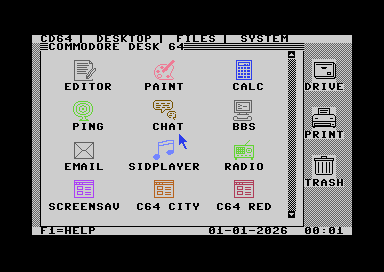
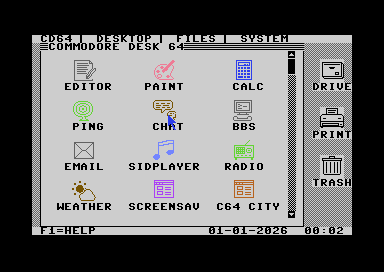
WEATHER step 8: README, screenshots, disks rebuilt
- README: a Weather chapter (wttr.in, CHANGE/AUTO, WEATHER.CFG, REFRESH
  and the 15-minute refresh, the 16 pictures, the test server), WEATHER in
  the program lists, user files, folders and tools; not on the D64.
- Screenshots: WEATHER in the C64 and DESK64 themes, an overview of all
  weather pictures, and the theme screenshots again with the new icon.
- Plan: step 8 done.

diff --git a/README.md b/README.md
@@ -68,8 +68,8 @@ C64 RED are placeholders.
 | E-mail: mailbox | Reading a message | Writing a reply |
 | ![Chat](docs/screenshots/chat.png) | ![Ping](docs/screenshots/ping.png) | ![Add BBS](docs/screenshots/bbs_add.png) |
 | AI chat | Ping | Adding your own BBS |
-| ![SID Radio](docs/screenshots/radio.png) | ![SID Radio playing](docs/screenshots/radio_play.png) | |
-| SID Radio | Playing a tune from the HVSC | |
+| ![SID Radio](docs/screenshots/radio.png) | ![SID Radio playing](docs/screenshots/radio_play.png) | ![Weather](docs/screenshots/weather.png) |
+| SID Radio | Playing a tune from the HVSC | Weather from wttr.in |
 
 | Settings | | |
 |---|---|---|
@@ -98,7 +98,7 @@ C64 RED are placeholders.
   - **SYSTEM**: SETTINGS, NETWORK, EMAIL and TIME. These are the only way to
     reach settings, the same everywhere.
 - **Desktop icons**: the built-in programs (EDITOR, PAINT, CALC, PING, CHAT,
-  BBS, EMAIL, SID PLAYER, RADIO) and your own programs, for example games. Click one to start it.
+  BBS, EMAIL, SID PLAYER, RADIO, WEATHER) and your own programs, for example games. Click one to start it.
   The list scrolls when it gets longer than the window.
 - **Starting a program from disk** (for example a game) shows a calm screen in the theme colours with
   `LOADING <name> please wait` while it loads. When the program ends (it
@@ -276,6 +276,39 @@ SID Player.
 - The WiC64 has its own "SID Radio" in its portal. Its source code is not
   public, so this is a separate implementation.
 
+### Weather
+
+![WEATHER in the DESK64 theme](docs/screenshots/weather_desk64.png)
+
+WEATHER shows the weather right now for a place you choose, with an
+animated picture made of sprites.
+
+- The weather comes from [wttr.in](https://wttr.in) over plain HTTP (a
+  C64 has no TLS): place, temperature, feels like, the description, wind
+  direction and speed, humidity, rain, air pressure, sunrise and sunset,
+  and the local time of the place. **UPDATED** is the time on the C64's own
+  clock when it was fetched.
+- **CHANGE** asks for a place (type it, RETURN). It is saved in
+  `WEATHER.CFG` and used again next time. An empty place means **AUTO**:
+  wttr.in then picks the place from your internet address. A place wttr.in
+  does not know gives `PLACE NOT FOUND`.
+- **REFRESH** fetches it again; while WEATHER is open it also refreshes by
+  itself every 15 minutes. **RUN/STOP** stops a fetch that takes too long.
+- The picture has 16 kinds of weather: sun, moon, partly cloudy (day and
+  night), cloudy, overcast, fog, light and heavy rain, showers (day and
+  night), light and heavy snow, sleet, thunder and thunder with snow. Sun
+  and moon follow the sunrise and sunset of the place. Rain and snow fall,
+  the sun shines, and the lightning flashes. Weather it does not know shows
+  a question mark.
+
+  ![All weather pictures](docs/screenshots/weather_types.png)
+- Works on the RR-Net, the Ultimate and the WiC64. WEATHER is on the D81 and
+  the D71; the D64 has no room for it.
+- [`tools/weather_test_server.py`](tools/weather_test_server.py) answers like
+  wttr.in without the internet, with every kind of weather and the error
+  cases (unknown place, server error, empty answer, a slow server, an
+  answer that is too long).
+
 ### AI chat
 
 Talk to an **OpenAI-compatible** AI server on your own network, such as
@@ -448,6 +481,7 @@ C64. The cursor keys move the text cursor there, not the pointer.
 | `BBS.CFG` | default BBS, local echo |
 | `BBS.BOOK` | your own BBSes |
 | `DESK.APPS` | your own programs on the desktop |
+| `WEATHER.CFG` | the place for WEATHER |
 
 `build_disk.bat` formats fresh disk images on every build. So that you never
 lose your settings, it first copies these files from the old disk image you
@@ -488,7 +522,7 @@ python tools/make_fremenfont.py
 build_disk.bat
 ```
 This builds the core, the program overlays (FILES, EDITOR, PAINT, CALC, SETUP,
-DESKTOOL, SIDPLAY, INET, BBS, EMAIL, TIME, RADIO) and the fonts, and writes everything to
+DESKTOOL, SIDPLAY, INET, BBS, EMAIL, TIME, RADIO, WEATHER) and the fonts, and writes everything to
 `build\CD64.d81`, `build\CD64.d71` and `build\CD64.d64`. It also makes
 `release\CD64.d81`, the clean test disk that is committed: without your
 settings, the real games or the SID files.
@@ -504,7 +538,8 @@ placeholders for the games.
 - **D71** (1571, double-sided): the system with placeholder games. At start-up CD64 switches
   the 1571 to double-sided mode (`U0>M1`), because a 1571 on a C64 starts
   as a 1541 and cannot read the second side.
-- **D64** (1541): the system and all programs always go on it. The extras
+- **D64** (1541): the system and all programs except WEATHER always go on
+  it (a full D64 has no room for WEATHER's 50 blocks). The extras
   (games, SID files) are added by `tools/disk_add.py` only while they fit,
   keeping 10 blocks free for your settings. What does not fit is reported.
 
@@ -608,6 +643,7 @@ apps/bbs/ BBS client: directory, session, terminal, Telnet
 apps/email/  e-mail: settings, POP3, SMTP, MIME/text decoding, screens
 apps/time/   date and time: NTP client, time zones, summer time
 apps/radio/  SID Radio: playlist, HTTP download, plays with the SID player
+apps/weather/  WEATHER: wttr.in over HTTP, place, the sprite pictures
 net/      network stack: CS8900, Ultimate UCI, WiC64, ARP/IP/ICMP, TCP, UDP, DNS, DHCP
 include/  palette · layout · memory map · ABI · hardware
 ```
@@ -634,11 +670,13 @@ include/  palette · layout · memory map · ABI · hardware
 | `disk_main.asm` | the core for the disk version |
 | `main_cart.asm` | the EasyFlash cartridge version |
 | `boot_main.asm` | boot loader with the splash screen |
-| `bbs_main.asm`, `email_main.asm`, `time_main.asm`, `radio_main.asm` | the BBS, EMAIL, TIME and RADIO overlays |
+| `bbs_main.asm`, `email_main.asm`, `time_main.asm`, `radio_main.asm`, `weather_main.asm` | the BBS, EMAIL, TIME, RADIO and WEATHER overlays |
 | `build_disk.bat`, `build_cart.bat` | build scripts |
 | `start_cd64.bat`, `tools/start_cd64.ps1` | start VICE with working networking |
 | `tools/export_core_syms.py` | core addresses for the separately built overlays |
 | `tools/mailtest_server.py` | POP3/SMTP test server |
+| `tools/weather_test_server.py` | test server for WEATHER (answers like wttr.in) |
+| `tools/make_weather_sprites.py` | the WEATHER sprite pictures |
 | `tools/disk_add.py` | writes optional files to a disk image only when they fit |
 | `tools/make_fonts.py`, `tools/make_fremenfont.py` | font generators |
 | `tools/make_bootscreen.py` | boot screen bitmap |

diff --git a/docs/WEATHER_Plan.md b/docs/WEATHER_Plan.md
@@ -274,7 +274,7 @@ Een zonnetje half achter een wolkje, in alle thema's:
 | 5 | **Ophalen**: HTTP GET naar wttr.in, ontleden, meldingen | ✅ **klaar**: echt weer via de WiC64 (VICE) — na openen, REFRESH en elke 15 min; "NO NETWORK", "PLACE NOT FOUND" (HTTP 500), time-out en RUN/STOP; plaats tot de eerste komma. Windpijl gecontroleerd tegen Open-Meteo (pijl = waarheen). RR-Net nog niet apart getest. Eén keer (van 6) eindigde VICE bij READY; niet terug te krijgen |
 | 6 | **Locatie**: CHANGE, AUTO, `WEATHER.CFG`, `build_disk.bat` | ✅ **klaar**: CHANGE → typen + RETURN (leeg = AUTO; alleen A-Z 0-9 spatie - ,), bewaard in `WEATHER.CFG` (in `USERFILES` van de build), na herstart weer ingelezen; onbekende plaats → PLACE NOT FOUND |
 | 7 | **Testserver**: `tools/weather_test_server.py` met elk weertype + foutgevallen | ✅ **klaar**: 17 weertypes (alle 8 windrichtingen, dag/nacht) en 6 gevallen (NOTFOUND, ERROR, EMPTY, SLOW, LONG, AUTO) in VICE: allemaal het verwachte scherm; geen enkele keer READY |
-| 8 | **Afwerken**: auto-refresh, help (F1), README, screenshots, D81/D71 | alles gecommit, D81 gebouwd |
+| 8 | **Afwerken**: auto-refresh, help (F1), README, screenshots, D81/D71 | ✅ **klaar**: README-hoofdstuk *Weather* (plus `WEATHER.CFG`, mappen en tools), schermafdrukken (C64, DESK64 en STONE, een overzicht van alle 16 weerplaatjes, de thema's opnieuw met het WEATHER-icoon); D81, D71 en `release/CD64.d81` gebouwd (`WEATHER` 50 blokken; niet op de D64) |
 
 ---
 
